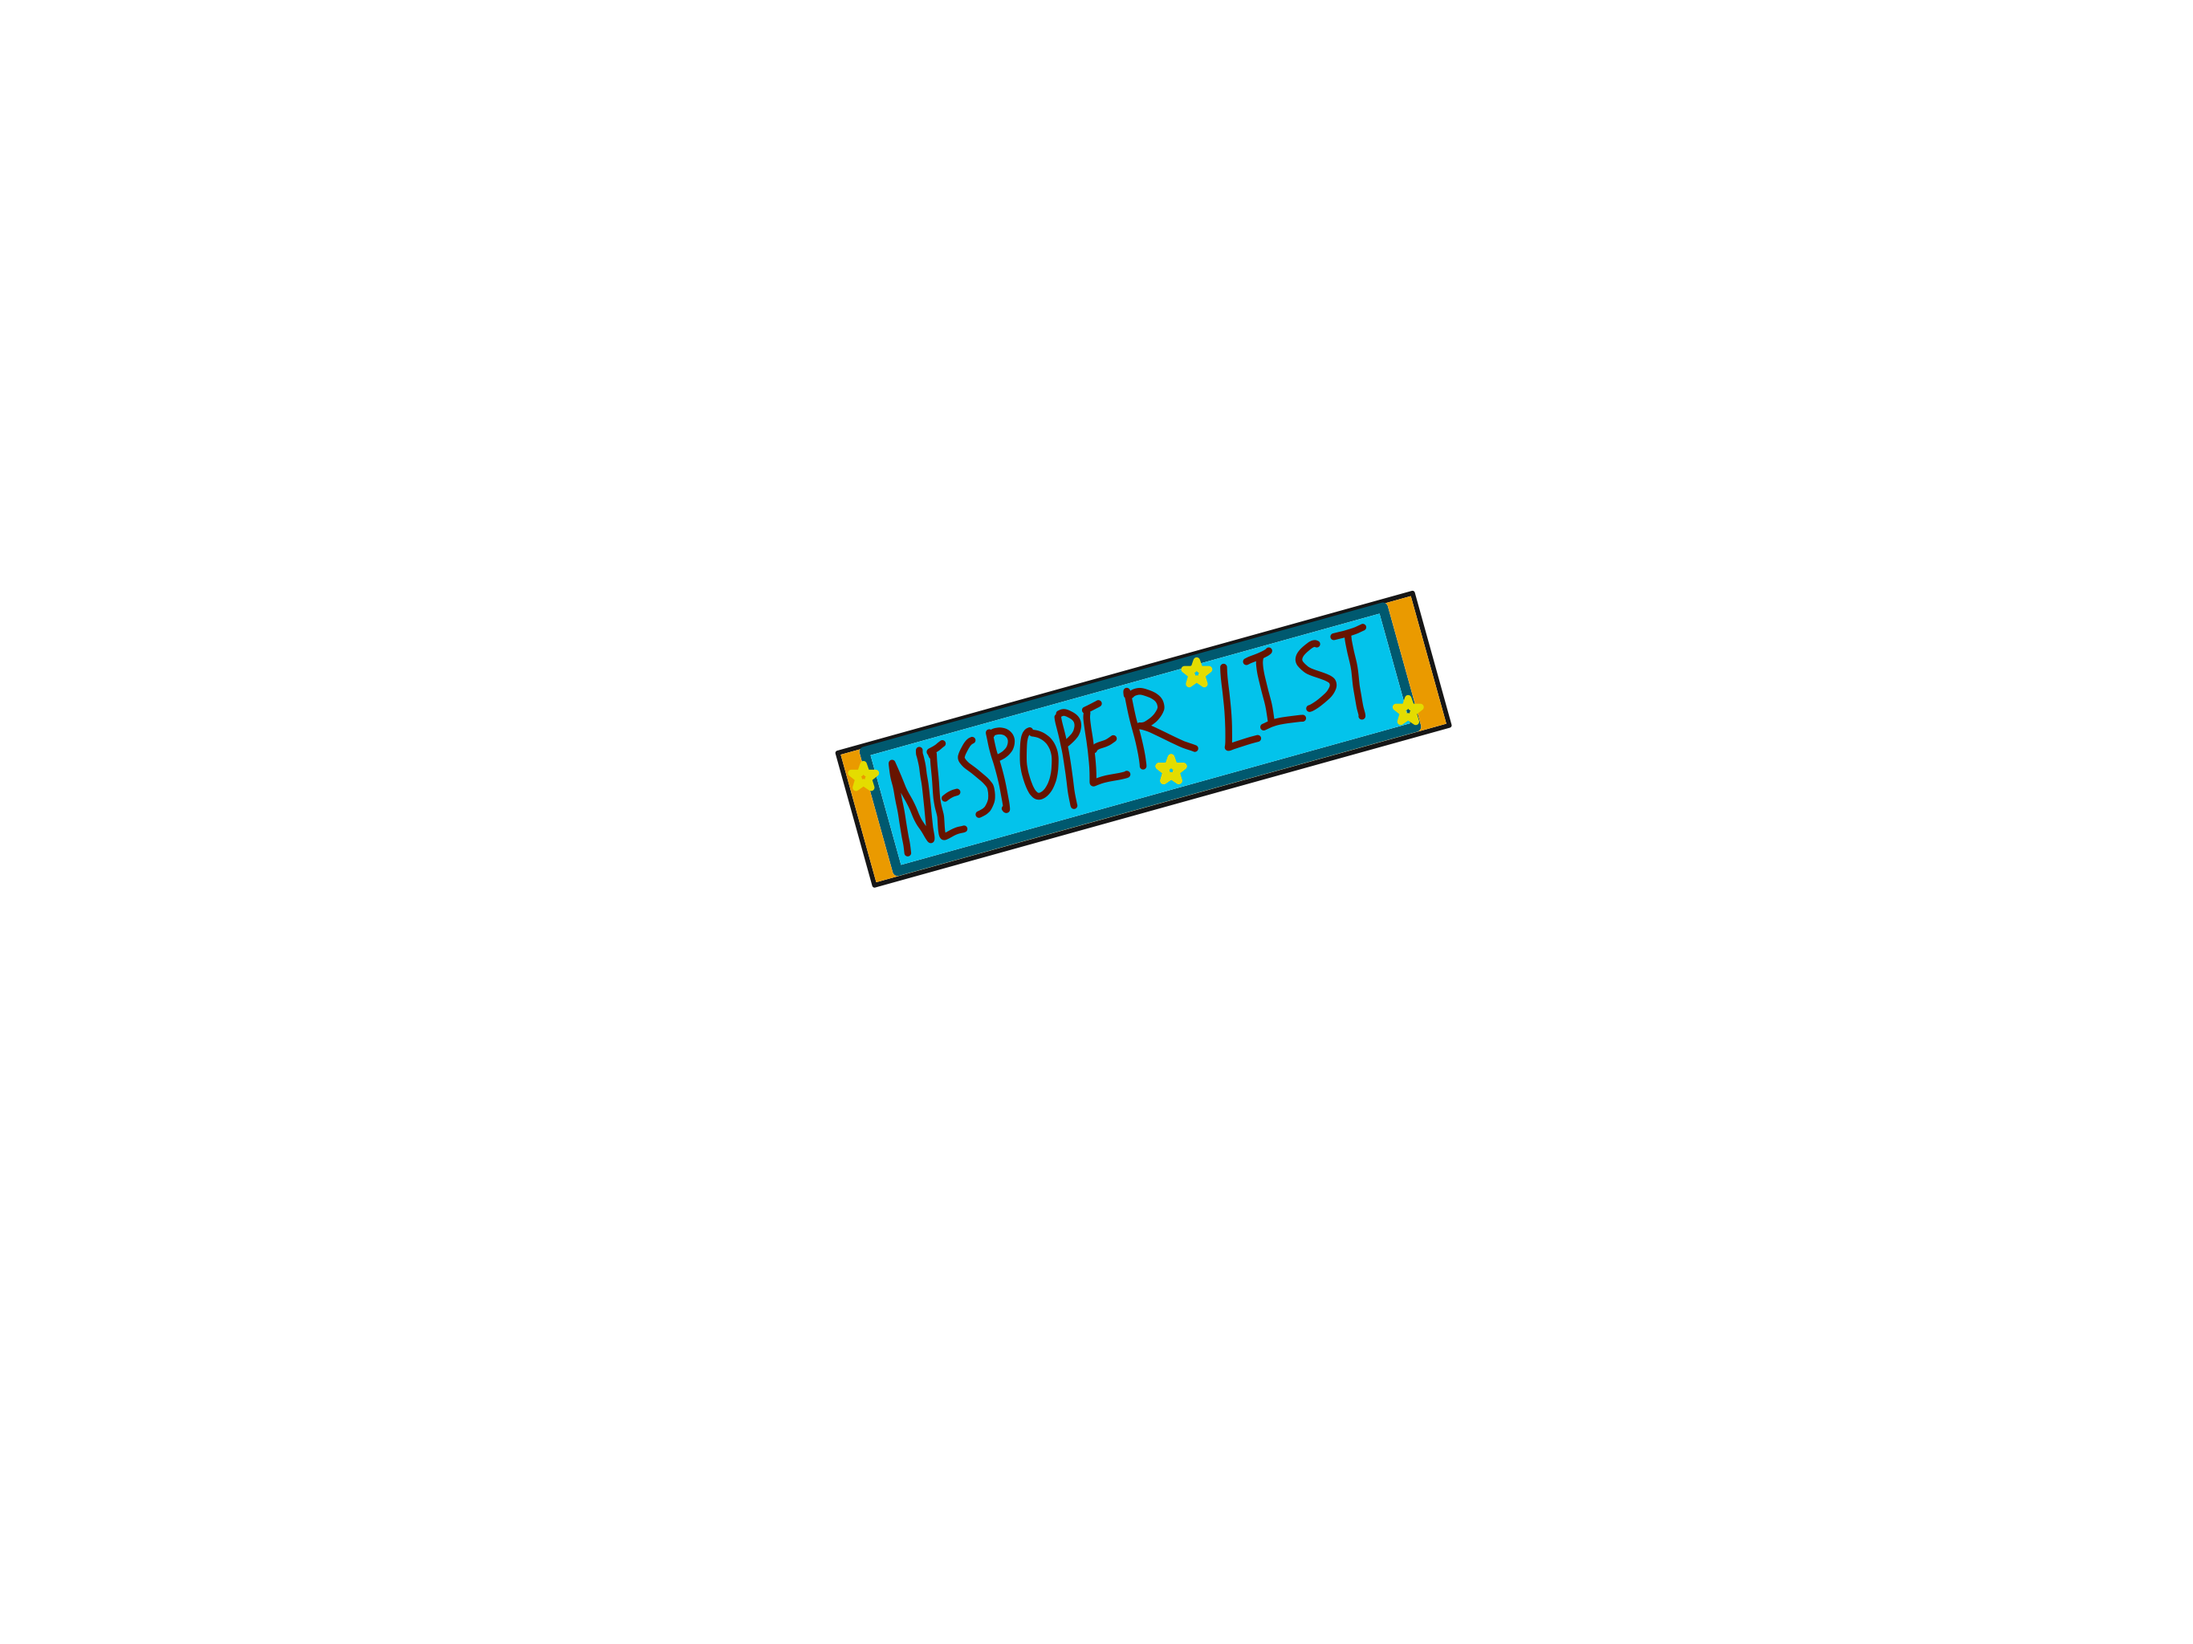
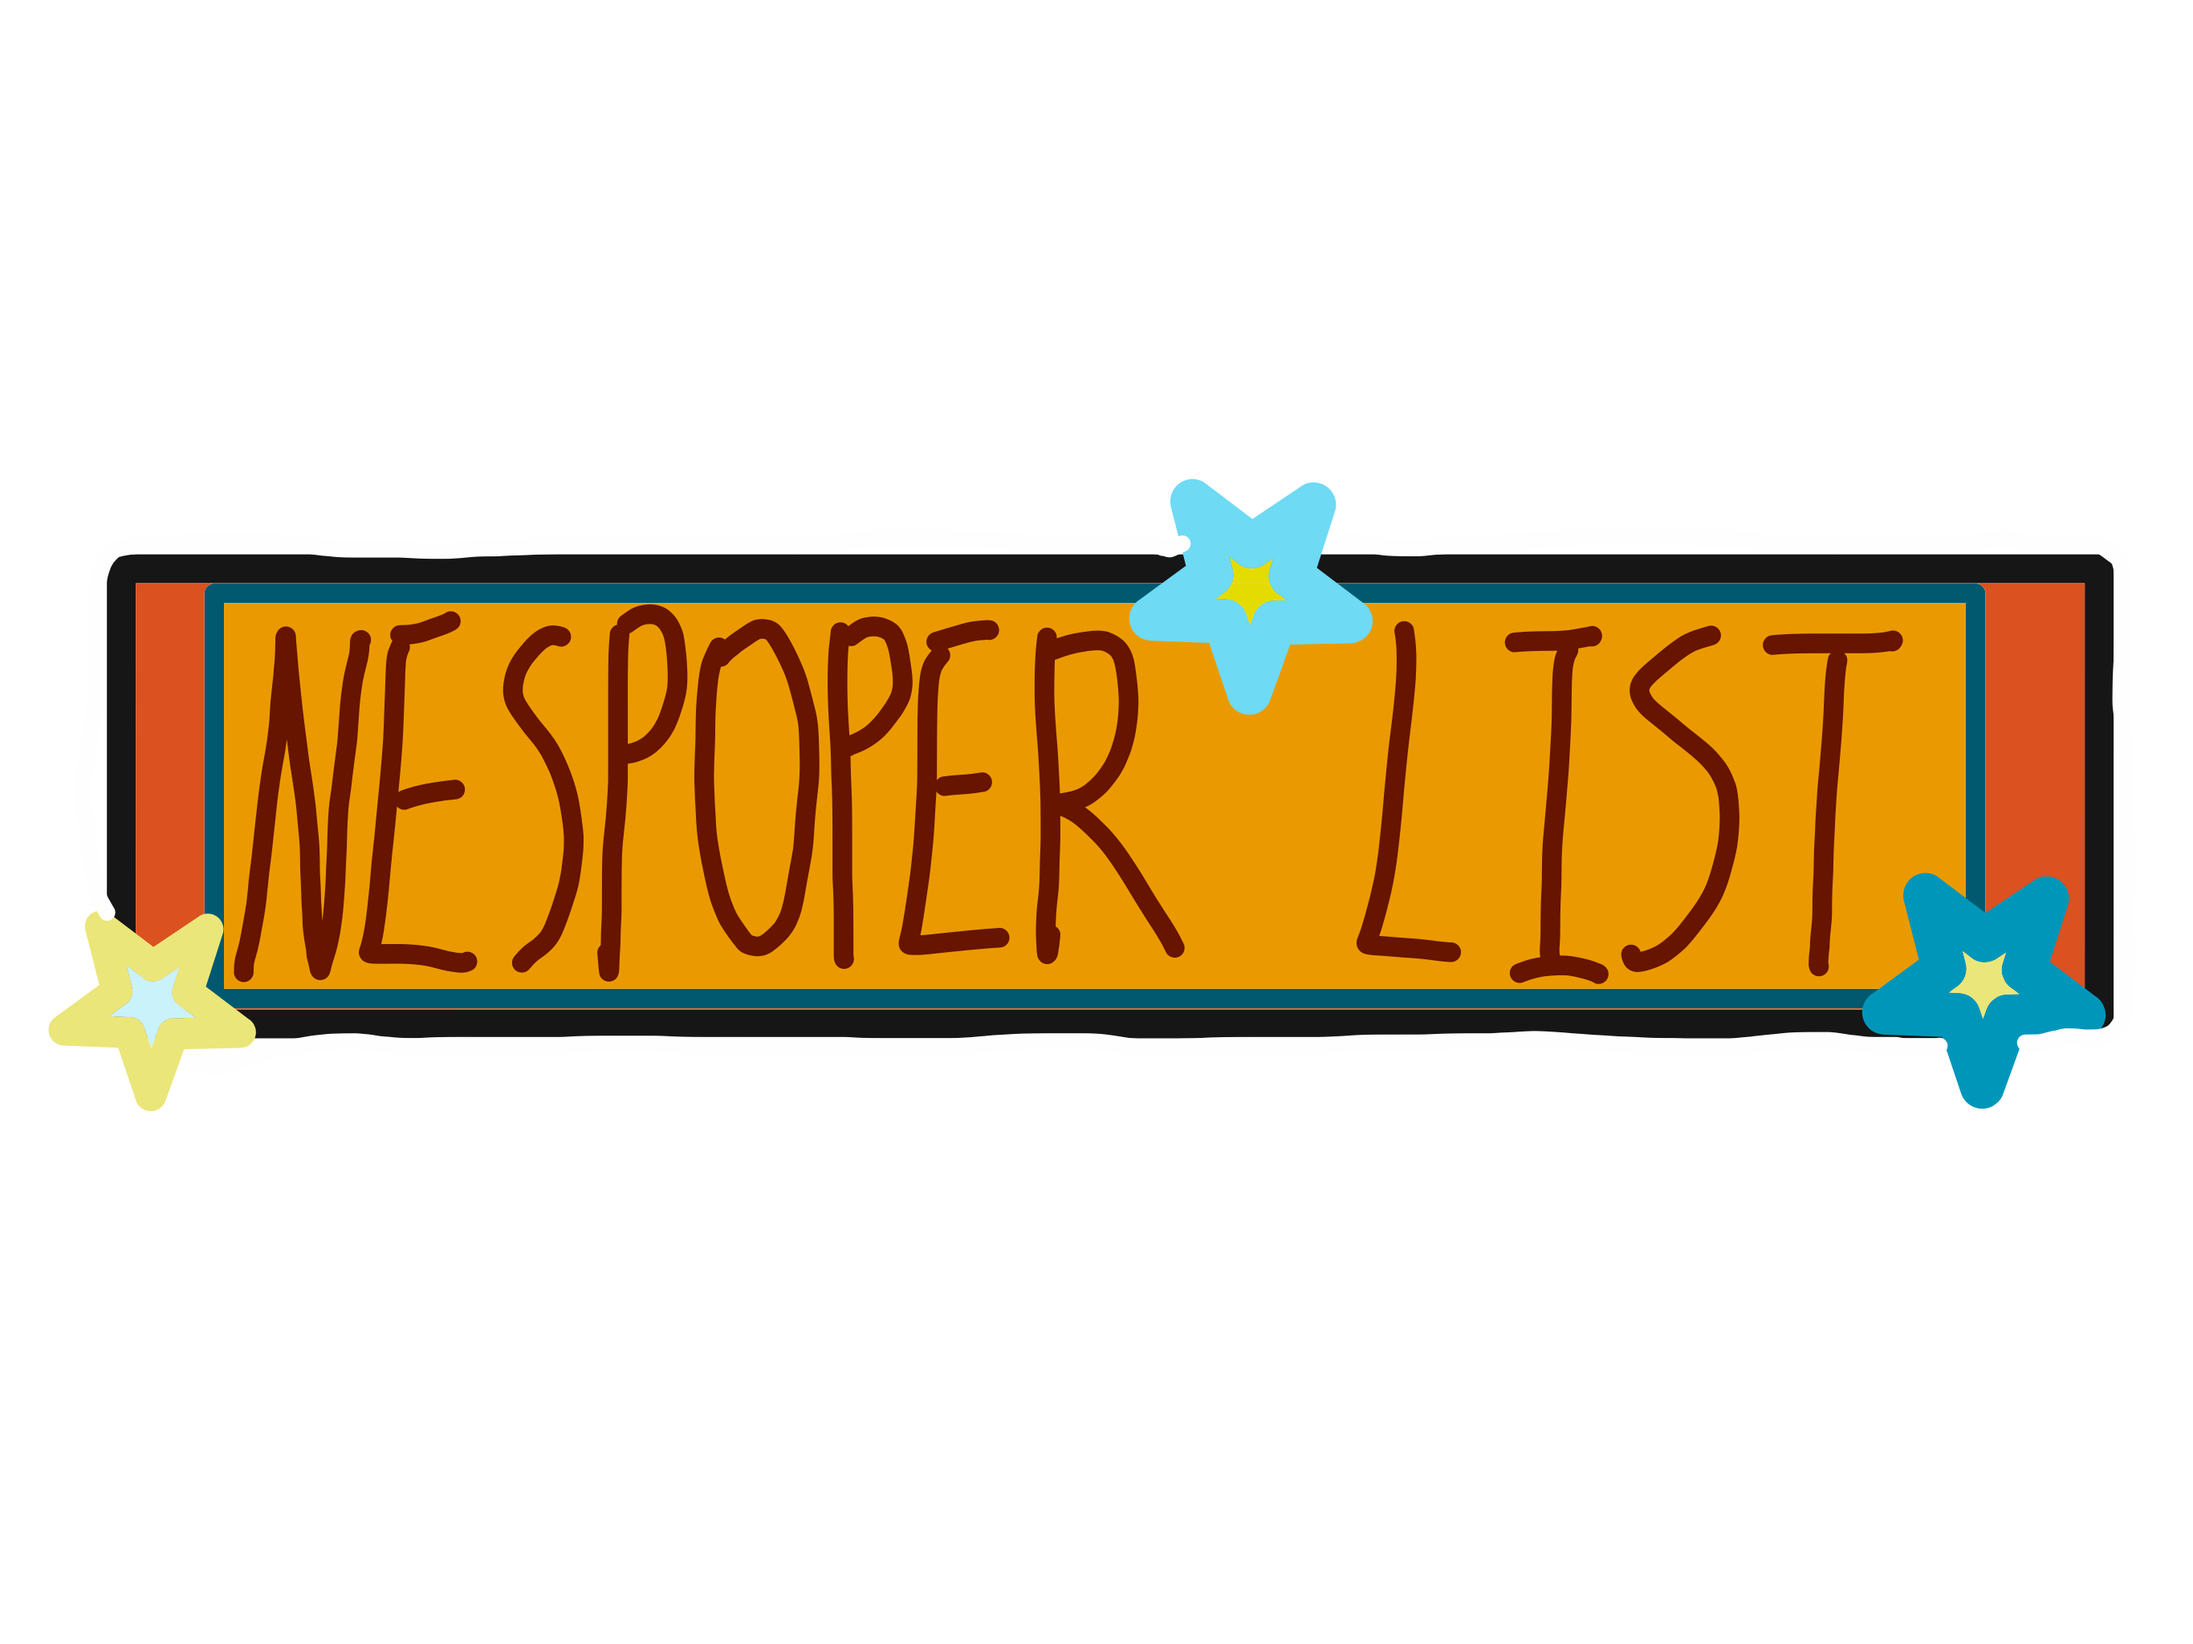
change newspaper list

Changed region(s): [[0.0311, 0.2812, 0.9645, 0.6875]]

diff --git a/src/scenes/Hud.js b/src/scenes/Hud.js
@@ -30,7 +30,7 @@ class Hud extends Phaser.Scene {
                 this.scene.resume('playScene');
             } // if you newspaperAccessScene is not active, you stop it and back to playScene
         });
-        this.add.text(20, 200, 'Click to open' + '\nand close' + '\nthe note').setOrigin(0.15);
+        this.add.text(game.config.width - 135, 120, 'Click to open' + '\nand close the' + '\nnote').setOrigin(0.08);
     }
 
     update(){

diff --git a/src/scenes/NewspaperAccess.js b/src/scenes/NewspaperAccess.js
@@ -5,7 +5,7 @@ class NewspaperAccess extends Phaser.Scene {
 
     create(){
         // show up the newspaper list menu title
-        this.add.sprite(40 + 170, 140, 'newssign').setScale(0.3).setAlpha(1).setInteractive();
+        this.add.sprite(40 + 400, 90, 'newssign').setScale(0.17).setAlpha(1).setInteractive();
 
         // show up the newspaper list
         this.newsList = this.add.group();
